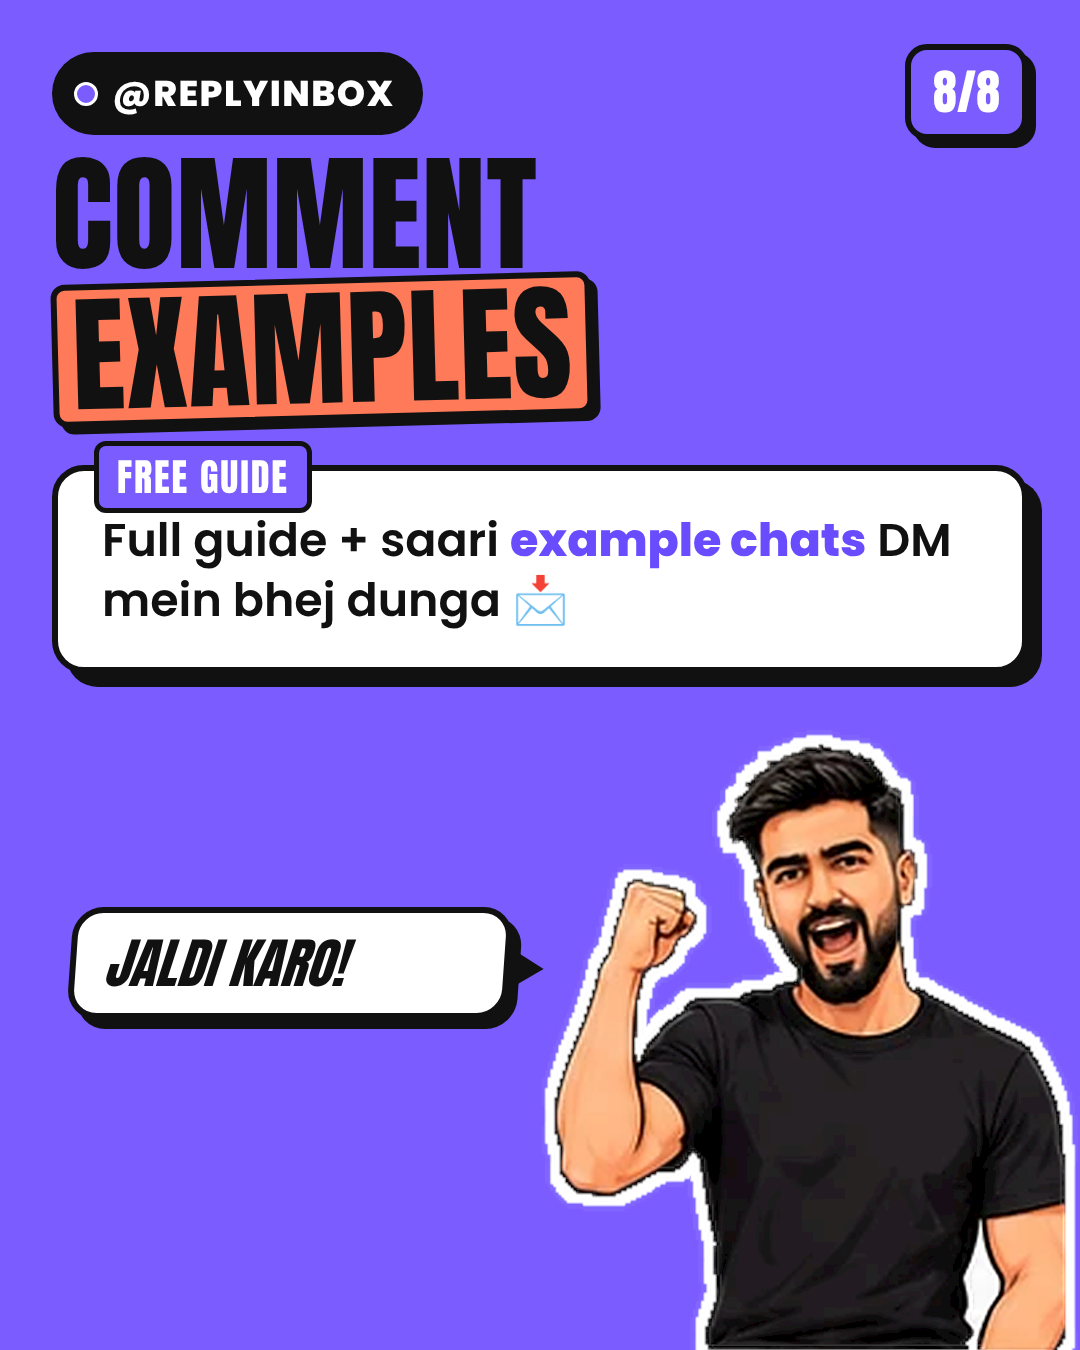
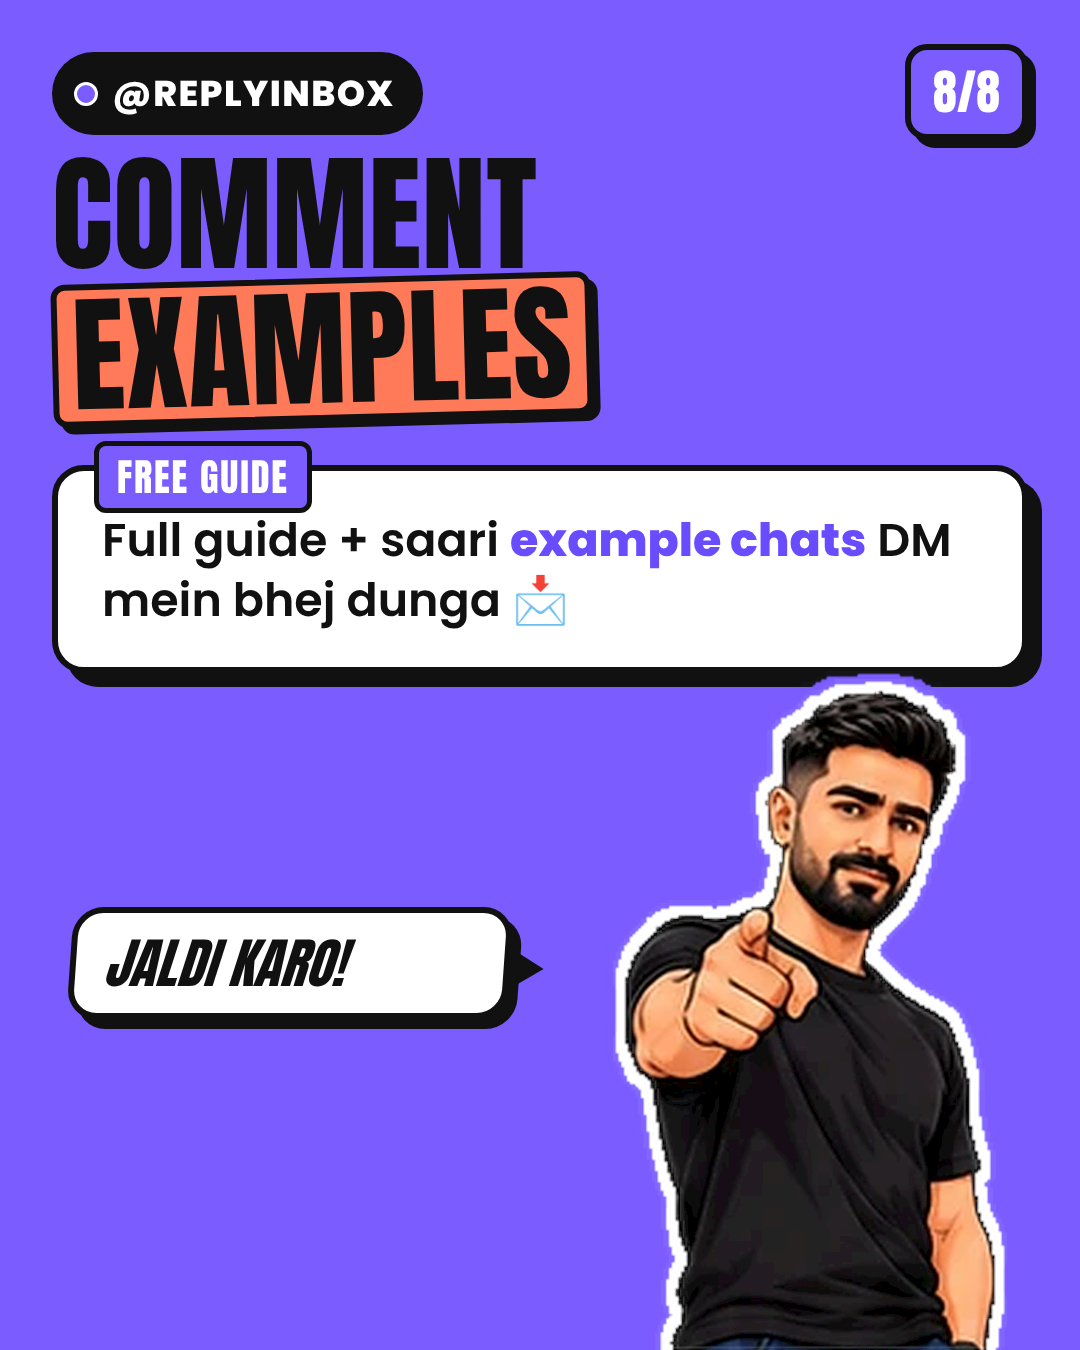
Comic carousels: switch to Om's full 90-pose set, pick poses by slide role (roles.json), framing and facing; roles contact sheet
Claude-Session: https://claude.ai/code/session_01FRkntvx728eTJcHw2qatRh

Changed region(s): [[0.4889, 0.4978, 1.0, 1.0], [0.7639, 0.84, 0.7944, 0.8711]]

diff --git a/saas/tools/comic.py b/saas/tools/comic.py
@@ -78,7 +78,7 @@ def headline_html(text):
 
 # ---------- characters ----------
 
-CHARACTER_SET = {"aiwithom": "om-v1", "decodingwithom": "om-v1", "replyinbox": "om-v1"}   # page → content/characters/<set>
+CHARACTER_SET = {"aiwithom": "om", "decodingwithom": "om", "replyinbox": "om"}   # page → content/characters/<set>
 HD_CACHE = os.path.join(tempfile.gettempdir(), "comic-characters-hd")
 
 
@@ -116,19 +116,57 @@ def load_index(page):
     return {p: {"src": "svg:" + p, "emotion": character.POSES[p]["expression"], "tags": tags.get(p, [])} for p in character.POSES}
 
 
-def pick_poses(slides, index):
-    used, out = {}, []
+def load_roles(page):
+    path = os.path.join(char_dir(page), "roles.json")
+    return json.load(open(path))["slide_roles"] if os.path.exists(path) else {}
+
+
+def slide_role(s, k, n):
+    if s.get("role"):
+        return s["role"]
+    if k == 0:
+        return "hook"
+    if k == n - 1:
+        return "cta"
+    return "steps" if s.get("steps") else "explain"
+
+
+def side_of(i):
+    """Character side on slide i (1-based): left on odd slides, right on even ones."""
+    return "left" if i % 2 else "right"
+
+
+def pick_poses(slides, index, roles=None):
+    """One pose per slide: matches the slide's role tags (earlier tags weigh more) and mood, never repeats while unused
+    poses remain, prefers bust/half framing on text-heavy slides and full/jumping poses on result and CTA slides,
+    and a right-facing pose when the character stands left of the content. "pose" on a slide overrides."""
+    roles = roles or {}
+    used, out, n = {}, [], len(slides)
+    order = {p: k for k, p in enumerate(index)}
     for k, s in enumerate(slides):
         if s.get("pose"):
             if s["pose"] not in index:
-                sys.exit(f"Slide {k + 1}: unknown pose {s['pose']!r}; have {sorted(index)}")
+                sys.exit(f"Slide {k + 1}: unknown pose {s['pose']!r}")
             choice = s["pose"]
         else:
+            role = slide_role(s, k, n)
+            want = [w.lower() for w in roles.get(role, [])]
             mood = set(m.lower() for m in s.get("mood", []))
+            heavy = slide_words(s) >= 14 or bool(s.get("chat") or s.get("steps"))
+
             def score(p):
                 v = index[p]
-                hit = len(mood & set(t.lower() for t in v.get("tags", []))) + (2 if v.get("emotion", "").lower() in mood else 0)
-                return (-used.get(p, 0), hit, -list(index).index(p))   # unused first, then best match
+                tags = [x.lower() for x in v.get("tags", [])]
+                fit = sum(len(want) - want.index(x) for x in tags if x in want) * 2
+                fit += 3 * len(mood & set(tags)) + (3 if v.get("emotion", "").lower() in mood else 0)
+                fr = v.get("framing", "half")
+                if role in ("result", "cta"):
+                    fit += 4 if fr == "full" else 0
+                elif heavy:
+                    fit += 4 if fr in ("bust", "half") else -4 if fr == "full" else 0
+                if side_of(k + 1) == "left" and v.get("faces") == "right":
+                    fit += 3
+                return (-used.get(p, 0), fit, -order[p])
             choice = max(index, key=score)
         used[choice] = used.get(choice, 0) + 1
         out.append(choice)
@@ -191,6 +229,24 @@ def contact_sheet(page, out):
         js = ("const {chromium}=require('playwright');(async()=>{const b=await chromium.launch();const p=await b.newPage({viewport:{width:1640,height:800}});"
               f"await p.goto('file://{tmp}/s.html');await p.screenshot({{path:'{os.path.abspath(out)}',fullPage:true}});await b.close();}})()")
         subprocess.run(["node", "-e", js], check=True, cwd=tmp, env={**os.environ, "NODE_PATH": __import__("carousels").node_path()})
+
+
+def roles_sheet(page, out):
+    """Contact sheet of every pose with the slide roles it fits (from roles.json), framing and facing."""
+    index, roles = load_index(page), load_roles(page)
+    cells = []
+    for name, v in index.items():
+        fits = [r for r, tags in roles.items() if set(tags) & set(v.get("tags", []))]
+        cells.append(f'<figure><img src="file://{html.escape(v["src"])}"><figcaption><b>{html.escape(name)}</b><br>'
+                     f'{html.escape(", ".join(fits) or "—")}<br><i>{v.get("framing", "")} · {v.get("faces", "")}</i></figcaption></figure>')
+    doc = ('<!doctype html><body style="margin:0;padding:16px;width:1800px;font:500 15px sans-serif;display:flex;flex-wrap:wrap;gap:10px;'
+           'background:#F6F2E7"><style>figure{margin:0;width:168px;text-align:center;background:#fff;border:3px solid #111;border-radius:12px;padding:6px}'
+           'img{width:150px;height:190px;object-fit:contain}figcaption{line-height:1.25}b{font-size:13px}</style>' + "".join(cells) + "</body>")
+    with tempfile.TemporaryDirectory() as tmp:
+        open(os.path.join(tmp, "s.html"), "w").write(doc)
+        js = ("const {chromium}=require('playwright');(async()=>{const b=await chromium.launch();const p=await b.newPage({viewport:{width:1832,height:800}});"
+              f"await p.goto('file://{tmp}/s.html');await p.screenshot({{path:'{os.path.abspath(out)}',fullPage:true}});await b.close();}})()")
+        subprocess.run(["node", "-e", js], check=True, cwd=tmp)
 
 
 def check(page):
@@ -281,7 +337,7 @@ mark{{background:{t['hl']};color:{t['hl_ink']};padding:0 14px;border:6px solid #
 
 
 def slide_html(s, i, n, t, char):
-    side = "left" if i % 2 else "right"
+    side = side_of(i)
     bg = s.get("bg") or BGS[(i - 1) % len(BGS)]
     if s.get("steps"):
         body = '<ol class="steps">' + "".join(f'<li><span class="n">{k}</span><span>{rich(x, t["key"])}</span></li>'
@@ -408,7 +464,7 @@ def build(spec_path, out_dir=None):
         sys.exit("Spec problems:\n  " + "\n  ".join(errs))
     t = PAGES[spec["page"]]
     index = load_index(spec["page"])
-    poses = pick_poses(spec["slides"], index)
+    poses = pick_poses(spec["slides"], index, load_roles(spec["page"]))
     out = out_dir or os.path.join(SAAS, "content", "comic", spec["page"], spec["slug"])
     os.makedirs(out, exist_ok=True)
     for f in os.listdir(out):
@@ -417,6 +473,8 @@ def build(spec_path, out_dir=None):
     jobs = []
     for i, (s, pose) in enumerate(zip(spec["slides"], poses), 1):
         char = character_svg(index[pose]["src"], t["sticker"], t["outfit"], f"c{i}")
+        if index[pose].get("faces") == "right" and side_of(i) == "right":   # turn him towards the content
+            char = char.replace("<svg ", '<svg style="transform:scaleX(-1)" ', 1)
         jobs.append((slide_html(s, i, SLIDES, t, char), os.path.join(out, f"{i:02d}.png")))
     bad = render(jobs)
     open(os.path.join(out, "caption.txt"), "w").write(caption(spec))
@@ -432,9 +490,12 @@ def main(argv=None):
     ap.add_argument("specs", nargs="*")
     ap.add_argument("--check", metavar="PAGE", help="check content/characters/PAGE/*.png and update characters.json")
     ap.add_argument("--out")
+    ap.add_argument("--roles-sheet", metavar="PAGE", help="write a contact sheet of every pose and the slide roles it fits")
     a = ap.parse_args(argv)
     if a.check:
         return check(a.check)
+    if a.roles_sheet:
+        return roles_sheet(a.roles_sheet, a.out or "poses-and-roles.png")
     for p in a.specs:
         build(p, a.out)
 
